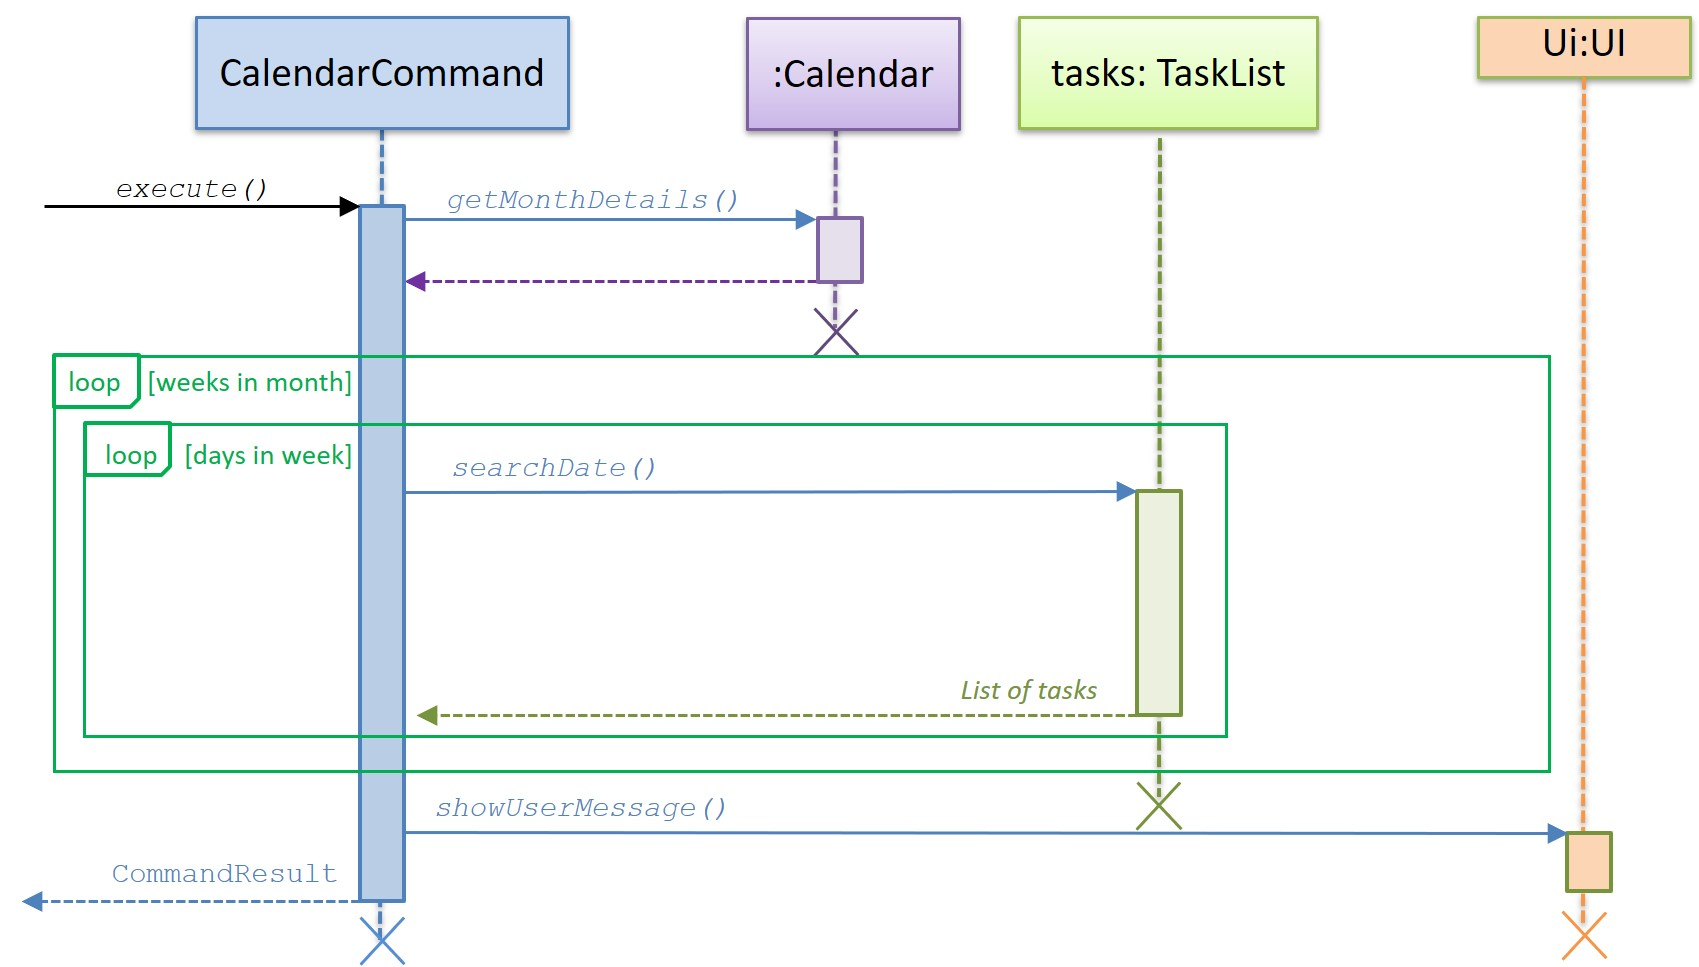
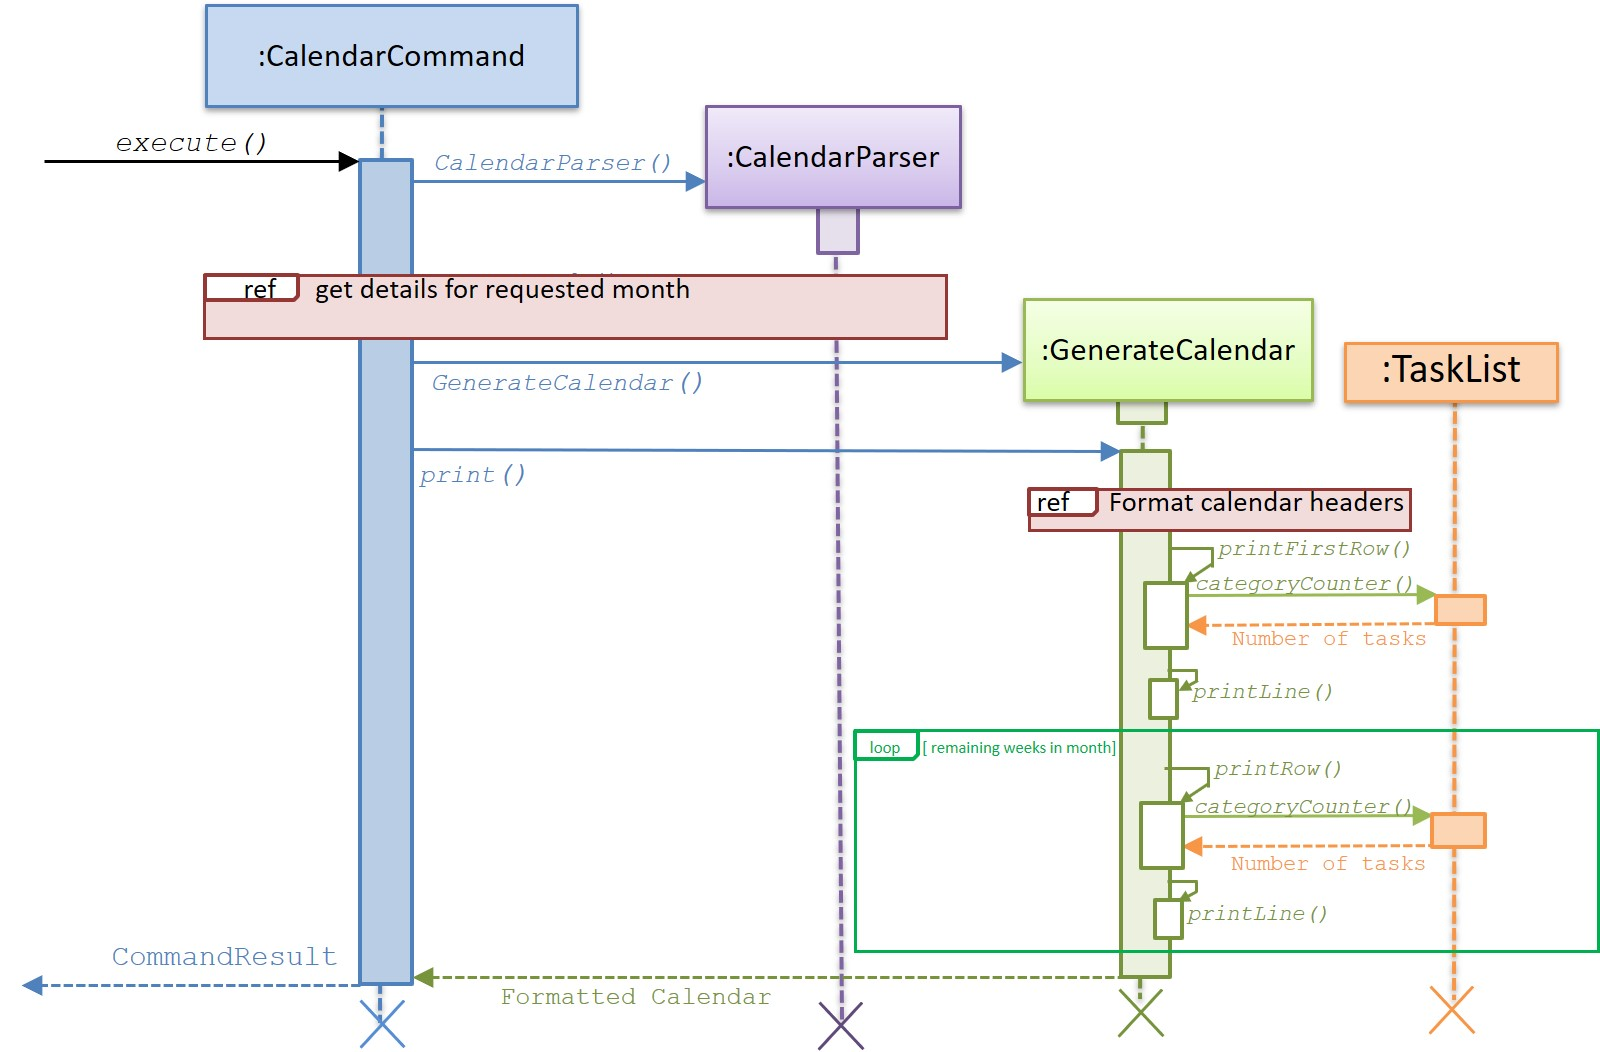
Update existing Calendar implementation

Changed region(s): [[0.0, 0.0, 1.0, 1.0], [0.3125, 0.9307, 0.4688, 0.9617]]

diff --git a/docs/DeveloperGuide.md b/docs/DeveloperGuide.md
@@ -202,27 +202,31 @@ The class diagram below shows the relationships between the different classes re
 The following diagram summarises what happens when a user executes a new `calendar` command:
 ![Sequence diagram for CalendarCommand](images/CalendarCommand_sequence.jpg)
 
+![Sequence diagram for CalendarCommand](images/sd_Parser.jpg)
+
+![Sequence diagram for CalendarCommand](images/sd_Month.jpg)
+
 
 ##### 3.2.2 Design Considerations
 1. Aspect: Obtaining information required for generating monthly view
   
-    * Alternative 1: (current choice) Algorithm to deduce how many weeks in month, which day a date is, how many days in that month
+    * Alternative 1: Algorithm to deduce how many weeks in month, which day a date is, how many days in that month
         * Pros: Will use less memory, requiring only one starting date we are able to derive any other dates. No need to worry about changing template for the new year
         * Cons: New developers will take additional effort to understand how the algorithm works.
       
     * Alternative 2: Hardcoded information (constant variables to tell days in month/how many weeks)
         * Pros: Easy maintenance, tedious but easily calculated with web applications.
         * Cons: Tedious and not sustainable, constant updates have to be done to edit the fields for a new year
+    
+    * Alternative 3 (current): Make use of Java inbuilt features to parse date by using Calendar and LocalDate.
+        * Pros: Easy maintenance, errors handled internally. A lot of methods to manipulate data.
+        * Cons: Might be hard to understand how to use at first
+     
 
 1. Aspect: Which month to use
   
     * User might want to know schedule for other months, but might also want a quick view of current month
     * Solution is to set a default month (taken from computer) and also allow input for preferred month.
-
-1. Aspect: generation of monthly details 
-  
-    * Calculation of details are shifted from the command to a separate class. 
-    This is to enable easier maintenance for methods relating to calendar features.
     
 ### 3.3 [Proposed] Add Task / Class
 ##### 3.3.1 Proposed Implementation
